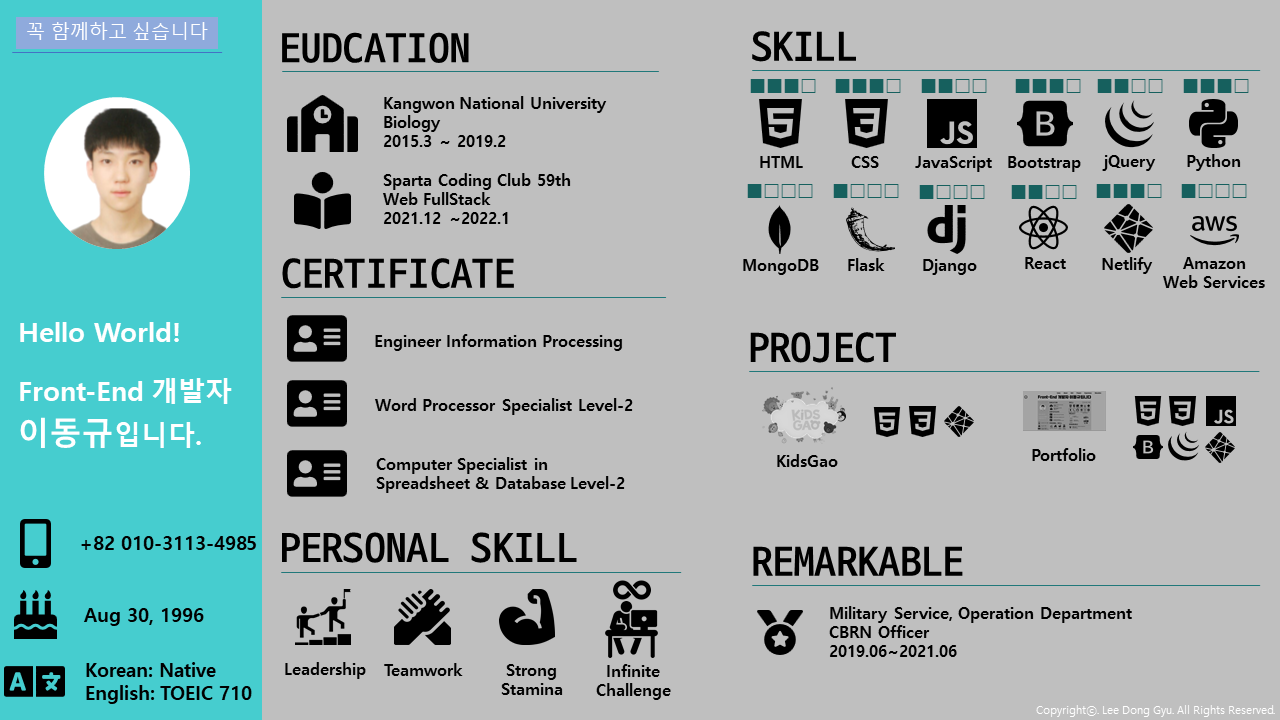
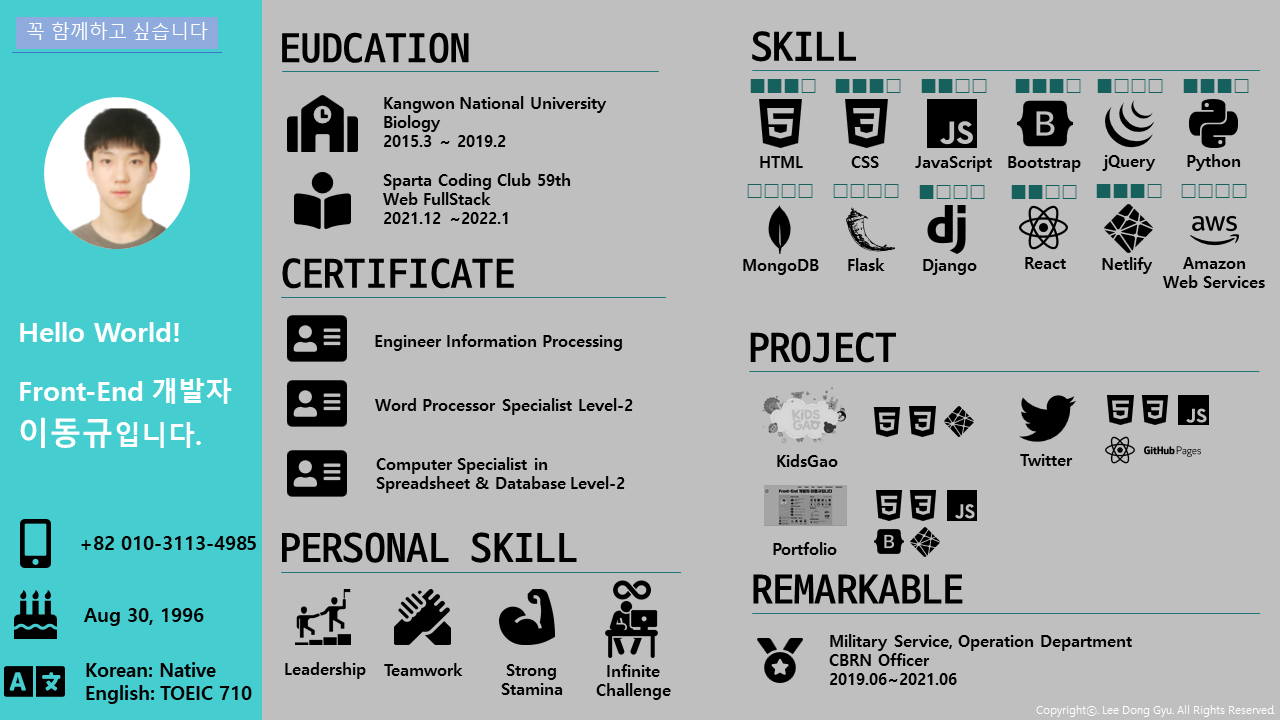
update

diff --git a/index.html b/index.html
@@ -122,23 +122,32 @@
             <div id="projectcontent">
                 <!-- fourthpjt -->
                 <div id="projecttitle">
-                    <img id="status" src="./img/inprogress.png" alt="">
+                    <img id="status" src="./img/completed.png" alt="">
                     <div id="projectsubtitle">
                         <h2>트위터 (클론코딩)</h2>
-                        <h5>2022. 1 ~ 작업 중</h5>
+                        <h5>2022. 1</h5>
                     </div>
                     <hr>
-                    <div id="thridpjt" class="carousel slide" data-ride="carousel">
+                    <div id="fourthpjt" class="carousel slide" data-ride="carousel">
                         <div class="carousel-inner">
-                          <div class="carousel-item active">
-                            <img class="d-block w-100" src="./img/twitter/twitter_logo.svg" alt="First slide">
+                            <div class="carousel-item active">
+                              <img class="d-block w-100" src="./img/twitter/1.jpg" alt="First slide">
+                            </div>
+                            <div class="carousel-item">
+                              <img class="d-block w-100" src="./img/twitter/2-1.jpg" alt="Second slide">
+                            </div>
+                            <div class="carousel-item">
+                              <img class="d-block w-100" src="./img/twitter/2-2.jpg" alt="fourth slide">
+                            </div>
+                            <div class="carousel-item">
+                              <img class="d-block w-100" src="./img/twitter/3.jpg" alt="fifth slide">
+                            </div>
                           </div>
-                        </div>
-                        <a class="carousel-control-prev" href="#thridpjt" role="button" data-slide="prev">
+                        <a class="carousel-control-prev" href="#fourthpjt" role="button" data-slide="prev">
                           <span class="carousel-control-prev-icon" aria-hidden="true"></span>
                           <span class="sr-only">Previous</span>
                         </a>
-                        <a class="carousel-control-next" href="#thridpjt" role="button" data-slide="next">
+                        <a class="carousel-control-next" href="#fourthpjt" role="button" data-slide="next">
                           <span class="carousel-control-next-icon" aria-hidden="true"></span>
                           <span class="sr-only">Next</span>
                         </a>
@@ -146,7 +155,16 @@
                     <div id="pjtcomment">
                         <div id="pjtcommentwrap">
                             <div>
-                                CSS파일 작업중입니다.
+                                뛰어난 성능과 재사용성을 가진 <span class="text_emphasis">React</span> 기술 습득에 초점을 맞추어 웹사이트를 제작했습니다.
+                            </div>
+                            <div class="over2line">
+                                최신형 문법인 함수용 컴포넌트 기반으로 <span  class="text_emphasis">useState, useEffect, props</span>를 실습할 수 있는 트위터 웹사이트를 클론코딩 했습니다.
+                            </div>
+                            <div>
+                                <span  class="text_emphasis">실시간 참여</span>가 가능하며, <span  class="text_emphasis">소셜 로그인 기능</span>을 구현함으로써 사용자의 편리성을 증가시켰습니다.
+                            </div>      
+                            <div>
+                                JavaScript의 유용성을 알게되어, JavaScript 알고리즘 공부를 시작한 계기가 되었습니다.
                             </div>
                         </div>
                         <hr>
@@ -168,7 +186,7 @@
                             </div>
                             <div id="commentsummarysub">
                                 <div class="commentsummarysubtitle">Skill</div>
-                                <div class="commentsummarysubcmt">HTML, CSS, JavaScript, React, firebase</div>
+                                <div class="commentsummarysubcmt">HTML, CSS, JavaScript, React, Firebase</div>
                             </div>
                         </div>
                     </div>
@@ -200,7 +218,7 @@
                     <div id="pjtcomment">
                         <div id="pjtcommentwrap">
                             <div>
-                                트위터 클론코딩 우선작업으로 일시중지하였습니다.
+                                기존에 만든 웹사이트를 Django를 이용하여 개편할 계획입니다.
                             </div>
                         </div>
                         <hr>
@@ -220,7 +238,7 @@
                             </div>
                             <div id="commentsummarysub">
                                 <div class="commentsummarysubtitle">Skill</div>
-                                <div class="commentsummarysubcmt">HTML, CSS, JavaScript</div>
+                                <div class="commentsummarysubcmt">HTML, CSS, JavaScript, Python, Django</div>
                             </div>
                         </div>
                     </div>
@@ -267,19 +285,19 @@
                     <div id="pjtcomment">
                         <div id="pjtcommentwrap">
                             <div>
-                                HTML, CSS로 <span style="color:rgba(238, 59, 39, 0.864)">정적인 콘텐츠</span>와 JavaScript, Bootstrap, jQuery로 <span style="color:rgba(238, 59, 39, 0.864)">동적인 콘텐츠</span>를 제작했습니다.
+                                HTML, CSS로 <span  class="text_emphasis">정적인 콘텐츠</span>와 JavaScript, Bootstrap, jQuery로 <span  class="text_emphasis">동적인 콘텐츠</span>를 제작했습니다.
                             </div>
                             <div>
-                                간단 명료한 <span style="color:rgba(238, 59, 39, 0.864)">자기소개</span>를 위해 포트폴리오 용도로 웹사이트를 제작했습니다.
+                                간단 명료한 <span  class="text_emphasis">자기소개</span>를 위해 포트폴리오 용도로 웹사이트를 제작했습니다.
                             </div>  
                             <div class="over2line">
-                                새롭게 배운 Flex, Column, Img Silde, Nav bar, active&hover 등을 자체 제작한 웹사이트에 적용하여 귀중한 <span style="color:rgba(238, 59, 39, 0.864)">자체개발 경험</span>을 얻게 되었습니다.
+                                새롭게 배운 Flex, Column, Img Silde, Nav bar, active&hover 등을 자체 제작한 웹사이트에 적용하여 귀중한 <span  class="text_emphasis">자체개발 경험</span>을 얻게 되었습니다.
                             </div>
                             <div>
-                                Netlify의 Deployment 기능을 이용하여 <span style="color:rgba(238, 59, 39, 0.864)">배포 경험</span>을 얻게된 첫번째 프로젝트입니다.
+                                Netlify의 Deployment 기능을 이용하여 <span  class="text_emphasis">배포 경험</span>을 얻게된 첫번째 프로젝트입니다.
                             </div>
                             <div>
-                                추가적인 변동 사항 발생 시, <span style="color:rgba(238, 59, 39, 0.864)">유지 보수</span>를 위해 지속적으로 Updata 하고 있습니다.
+                                추가적인 변동 사항 발생 시, <span  class="text_emphasis">유지 보수</span>를 위해 지속적으로 Updata 하고 있습니다.
                             </div>
                         </div>
                         <hr>
@@ -299,7 +317,7 @@
                             </div>
                             <div id="commentsummarysub">
                                 <div class="commentsummarysubtitle">Skill</div>
-                                <div class="commentsummarysubcmt">HTML, CSS, JavaScript, Bootstrap, jQuery</div>
+                                <div class="commentsummarysubcmt">HTML, CSS, JavaScript, Bootstrap</div>
                             </div>
                         </div>
                     </div>
@@ -343,13 +361,13 @@
                     <div id="pjtcomment">
                         <div id="pjtcommentwrap">
                             <div>
-                                기본 개념인 <span style="color:rgba(238, 59, 39, 0.864)">HTML과 CSS</span>을 실습할 수 있는 KidsGao 웹사이트를 클론 코딩했습니다.
+                                기본 개념인 <span  class="text_emphasis">HTML과 CSS</span>을 실습할 수 있는 KidsGao 웹사이트를 클론 코딩했습니다.
                             </div>
                             <div>
-                                유기농 제품의 탄생 과정을 <span style="color:rgba(238, 59, 39, 0.864)">스토리텔링 방식</span>으로 친숙하고 재미있게 소개합니다.
+                                유기농 제품의 탄생 과정을 <span  class="text_emphasis">스토리텔링 방식</span>으로 친숙하고 재미있게 소개합니다.
                             </div>
                             <div>
-                                애니메이션 효과 활용을 통해 <span style="color:rgba(238, 59, 39, 0.864)">디자인 경험</span>을 얻게 되었습니다.
+                                애니메이션 효과 활용을 통해 <span  class="text_emphasis">디자인 경험</span>을 얻게 되었습니다.
                             </div>
                             <div>
                                 원페이지 웹사이트를 만들면서 두 번째 프로젝트인 포트폴리오 개발에 큰 도움이 되었습니다.
@@ -426,10 +444,10 @@
                         <p>Sparta Coding Club 59th, Web Fullstack</p>
                         <p>HTML, Bootstrap를 이용한 웹사이트 제작</p>
                         <p>API, Ajax를 이용한 실시간 환율 적용</p>
-                        <p>Python을 이용한 네이버 영화 <span style="color:rgba(238, 59, 39, 0.864)">웹스크래핑</span></p>
-                        <p>MongoDB, Flask로 <span style="color:rgba(238, 59, 39, 0.864)">데이터 저장 및 로컬서버 생성</span></p>
-                        <p>AWS, Flask를 이용한 동적 웹사이트 <span style="color:rgba(238, 59, 39, 0.864)">배포</span></p>
-                        <p><span style="color:rgba(238, 59, 39, 0.864)">도메인 적용방법 습득</span><a href="http://ldg-portfolio.shop/" target="_blank"> (ldg-portfolio.shop)</a></p>
+                        <p>Python을 이용한 네이버 영화 <span  class="text_emphasis">웹스크래핑</span></p>
+                        <p>MongoDB, Flask로 <span  class="text_emphasis">데이터 저장 및 로컬서버 생성</span></p>
+                        <p>AWS, Flask를 이용한 동적 웹사이트 <span  class="text_emphasis">배포</span></p>
+                        <p><span  class="text_emphasis">도메인 적용방법 습득</span><a href="http://ldg-portfolio.shop/" target="_blank"> (ldg-portfolio.shop)</a></p>
                     </div>
                 </div>
             </div>
@@ -468,7 +486,7 @@
                         </div>
                     <div class="educomment">
                         <p>code.camp Pre-camp 11th, Web Front-end</p>
-                        <p>HTML과 CSS를 이용한 <span style="color:rgba(238, 59, 39, 0.864)">iframe 기반 웹사이트 제작</span></p>
+                        <p>HTML과 CSS를 이용한 <span class="text_emphasis">iframe 기반 웹사이트 제작</span></p>
                         <p>JavaScipt를 이용한 동적인 회원가입 웹페이지 제작</p>
                     </div>
                 </div>
@@ -493,10 +511,8 @@
                             <p>강원대학교 생명과학과 졸업</p>
                             <p>학점 3.48 / 4.5</p>
                             <p>(주)코리아에코웍스 현장실습(1개월)</p>
-                            <p>- 인턴 생활간 연구실 건물안에서 실험만하는게 적성</p>
-                            <p>과 맞지 않아 고민하던중, 평소에 컴퓨터에 관심이 </p>
-                            <p>많아 컴퓨터 조립과 관련 자격증을 취득하게되면서</p>
-                            <p>자연스럽게 컴퓨터 개발자에 관심갖게 되었습니다.</p>
+                            <p>- 인턴 생활 간 연구실에서만 실험만 하는 게 적성과 맞지 않아 고민하던 중, 평소에 컴퓨터에 관심이 많아 컴퓨터 조립과 컴퓨터 자격증을 취득하게 되면서, 자연스럽게 컴퓨터 개발자에 관심 갖게 되었습니다.</p>
+                            
                         </div>
                     </div>
                 </div>
@@ -518,7 +534,7 @@
                         현재 일자리를 찾고 있습니다<br>
                         언제든지 연락 부탁드리겠습니다.
                     </h2>
-                    <a id="exp__contact__btn"href="#myselfwrap">연락수단 확인하러 가기</a>
+                    <a id="exp__contact__btn"href="#">연락수단 확인하러 가기</a>
                 </div>
             </div>
         </div>
@@ -590,8 +606,6 @@
     <script src="https://code.jquery.com/jquery-3.2.1.slim.min.js" integrity="sha384-KJ3o2DKtIkvYIK3UENzmM7KCkRr/rE9/Qpg6aAZGJwFDMVNA/GpGFF93hXpG5KkN" crossorigin="anonymous"></script>
     <script src="https://cdnjs.cloudflare.com/ajax/libs/popper.js/1.12.9/umd/popper.min.js" integrity="sha384-ApNbgh9B+Y1QKtv3Rn7W3mgPxhU9K/ScQsAP7hUibX39j7fakFPskvXusvfa0b4Q" crossorigin="anonymous"></script>
     <script src="https://maxcdn.bootstrapcdn.com/bootstrap/4.0.0/js/bootstrap.min.js" integrity="sha384-JZR6Spejh4U02d8jOt6vLEHfe/JQGiRRSQQxSfFWpi1MquVdAyjUar5+76PVCmYl" crossorigin="anonymous"></script>
-    <!-- jquery js file -->
-    <script src="https://ajax.googleapis.com/ajax/libs/jquery/3.5.1/jquery.min.js"></script>
     <!-- js file -->
     <script src="./js/daynightauto.js"></script>
     <script src="./js/nav.js"></script>

diff --git a/js/nav.js b/js/nav.js
@@ -1,42 +1,49 @@
-$(function () {
-    $('#homebtn').on( 'click', function(a) {
-        a.preventDefault();
-        $('html,body').animate({scrollTop:0},600);
-    })
-})
-$(function () {
-    $('#abtbtn, #exp__contact__btn').on( 'click', function(b) {
-        b.preventDefault();
-        $('html,body').animate({scrollTop:610},600);
-    })
-})
-$(function () {
-    $('#skillbtn').on( 'click', function(c) {
-        c.preventDefault();
-        $('html,body').animate({scrollTop:1200},600);
-    })
-})
-$(function () {
-    $('#pjtbtn').on( 'click', function(d) {
-        d.preventDefault();
-        $('html,body').animate({scrollTop:2320},600);
-    })
-})
-$(function () {
-    $('#edubtn').on( 'click', function(e) {
-        e.preventDefault();
-        $('html,body').animate({scrollTop:5450},600);
-    })
-})
-$(function () {
-    $('#expbtn').on( 'click', function(f) {
-        f.preventDefault();
-        $('html,body').animate({scrollTop:7370},600);
-    })
-})
-$(function () {
-    $('#archivbtn').on( 'click', function(f) {
-        f.preventDefault();
-        $('html,body').animate({scrollTop:8430},600);
-    })
-})
+const homebtn = document.querySelector("#homebtn");
+const homescroll = document.querySelector("#main");
+const abtbtn = document.querySelector("#abtbtn");
+const abtscroll = document.querySelector("#myself");
+const skillbtn = document.querySelector("#skillbtn");
+const skillscroll = document.querySelector("#skill");
+const pjtbtn = document.querySelector("#pjtbtn");
+const pjtscroll = document.querySelector("#project");
+const edubtn = document.querySelector("#edubtn");
+const eduscroll = document.querySelector("#education");
+const expbtn = document.querySelector("#expbtn");
+const expscroll = document.querySelector("#experience");
+const archivbtn = document.querySelector("#archivbtn");
+const archivscroll = document.querySelector("#archive");
+const exp__contact__btn = document.querySelector("#exp__contact__btn");
+
+homebtn.addEventListener("click", (event) => {
+  event.preventDefault();
+  homescroll.scrollIntoView({ behavior: "smooth" });
+});
+abtbtn.addEventListener("click", (event) => {
+  event.preventDefault();
+  abtscroll.scrollIntoView({ behavior: "smooth" });
+});
+skillbtn.addEventListener("click", (event) => {
+  event.preventDefault();
+  skillscroll.scrollIntoView({ behavior: "smooth" });
+});
+pjtbtn.addEventListener("click", (event) => {
+  event.preventDefault();
+  pjtscroll.scrollIntoView({ behavior: "smooth" });
+});
+edubtn.addEventListener("click", (event) => {
+  event.preventDefault();
+  eduscroll.scrollIntoView({ behavior: "smooth" });
+});
+expbtn.addEventListener("click", (event) => {
+  event.preventDefault();
+  expscroll.scrollIntoView({ behavior: "smooth" });
+});
+archivbtn.addEventListener("click", (event) => {
+  event.preventDefault();
+  archivscroll.scrollIntoView({ behavior: "smooth" });
+});
+
+exp__contact__btn.addEventListener("click", (event) => {
+  event.preventDefault();
+  abtscroll.scrollIntoView({ behavior: "smooth" });
+});

diff --git a/css/main.css b/css/main.css
@@ -2,7 +2,12 @@
   margin: 0;
   padding: 0;
 }
-
+.carousel-control-next-icon,
+.carousel-control-prev-icon {
+  background-color: rgba(128, 128, 128, 0.4) !important;
+  border-radius: 20px;
+  height: 50px;
+}
 p,
 h1,
 h2,
@@ -46,6 +51,9 @@ img.clip {
   float: left;
   padding-top: 12px;
   padding-right: 10px;
+}
+.text_emphasis {
+  color: rgba(238, 59, 39, 0.864);
 }
 /* reset exit */
 
@@ -491,7 +499,7 @@ img.clip {
 }
 #education #educationwrap #educationcontent #educationtitle #educommentNimg1 {
   text-align: initial;
-  display: table;
+  display: flex;
 }
 #education
   #educationwrap
@@ -499,10 +507,9 @@ img.clip {
   #educationtitle
   #educommentNimg1
   .educomment {
-  float: left;
   font-size: 1.5rem;
   font-family: "HSSaemaul-Regular";
-  padding: 10px;
+  padding: 0 10px;
   padding-left: 20px;
 }
 #education
@@ -511,8 +518,8 @@ img.clip {
   #educationtitle
   #educommentNimg1
   > img {
-  float: left;
   width: 300px;
+  height: 268px;
   border-right: 1px gray dotted;
   padding-right: 30px;
 }
@@ -528,8 +535,6 @@ img.clip {
   #educationtitle
   #educommentNimg1
   .carousel.slide {
-  width: 300px;
-  float: left;
   width: 300px;
   border-right: 1px gray dotted;
   padding-right: 30px;
